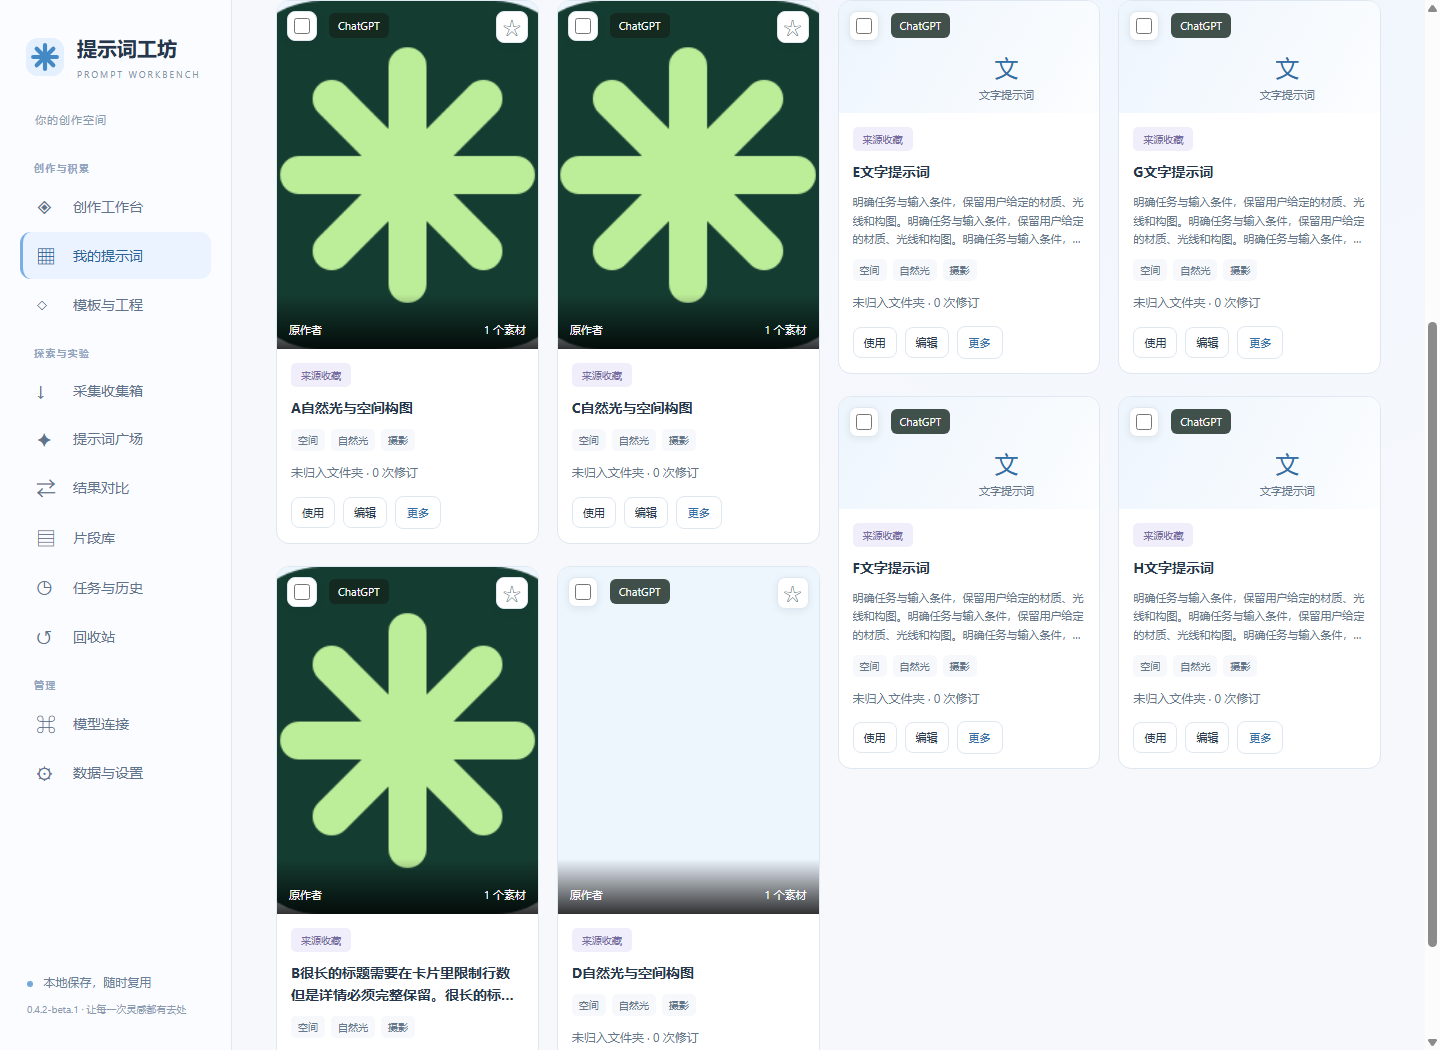
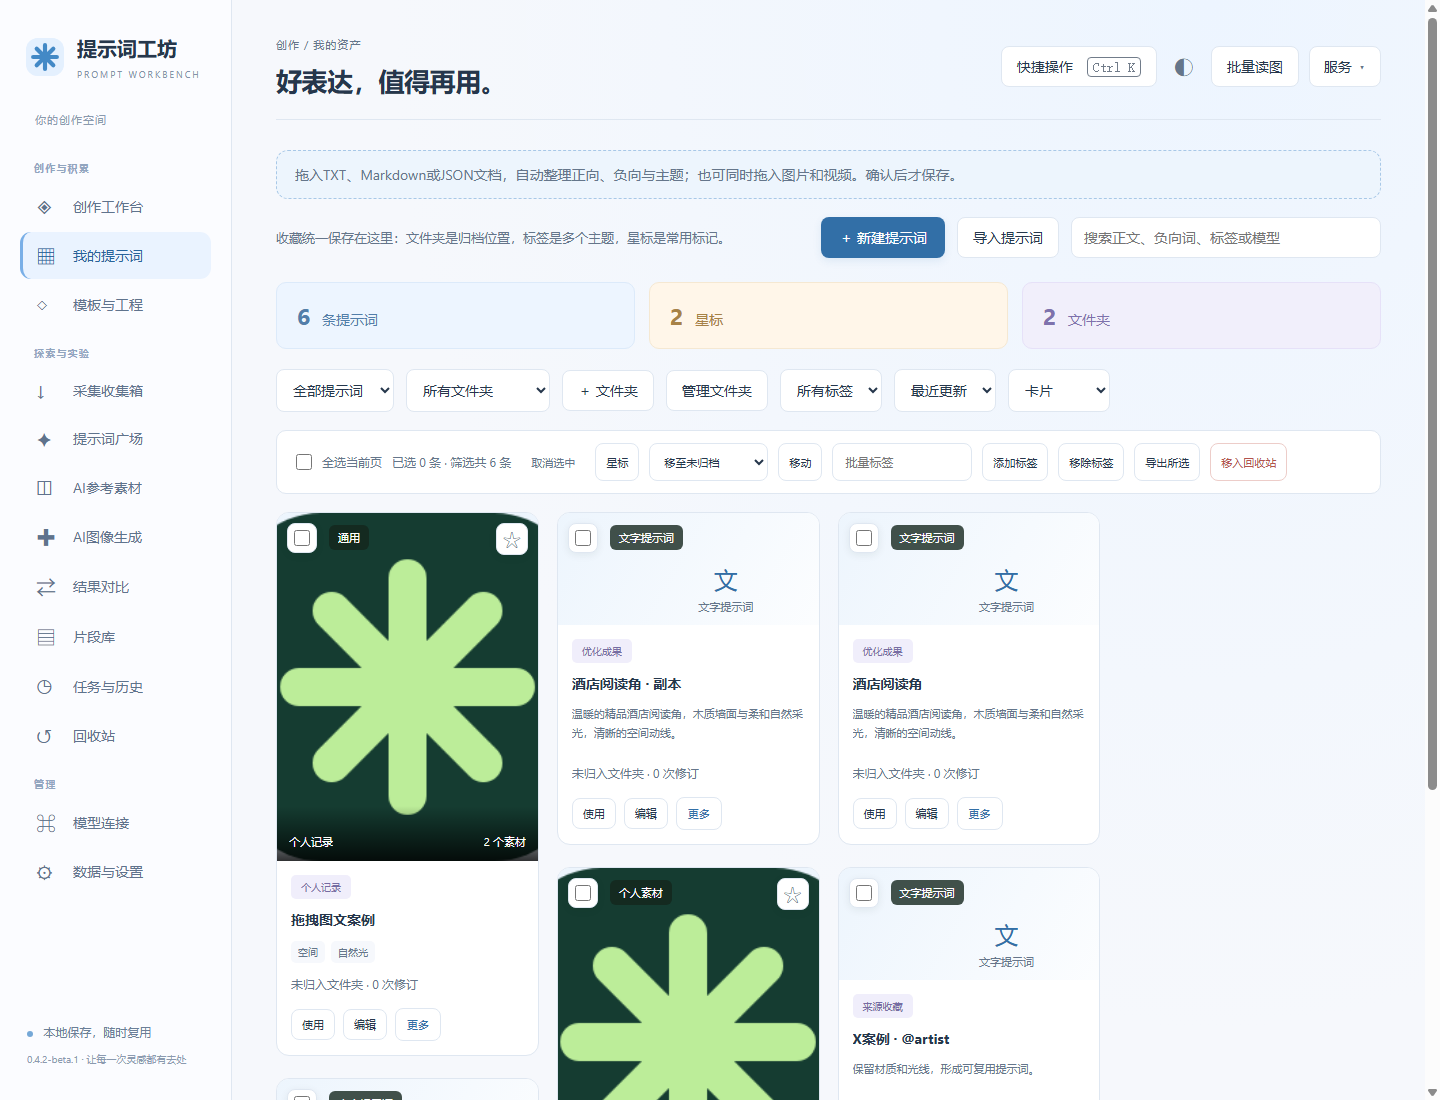
fix: fetch lifecycle history and verify current source count

diff --git a/README.md b/README.md
@@ -10,7 +10,7 @@
 
 ## 界面预览
 
-以下截图记录首个公开版的界面布局，新版采用画廊主题并增加图像合成等页面；截图为隔离演示环境中的真实界面，使用模拟连接、模拟结果和示例提示词；不含私人数据，生成内容与耗时不代表真实模型效果。点击图片可查看原图。
+以下为本版隔离演示环境中的真实界面截图，使用模拟连接、模拟结果和示例提示词；不含私人数据，生成内容与耗时不代表真实模型效果。点击图片可查看原图。
 
 **创作工作台** — 选择连接与模板，保留原始想法，编辑和收藏结果。
 
